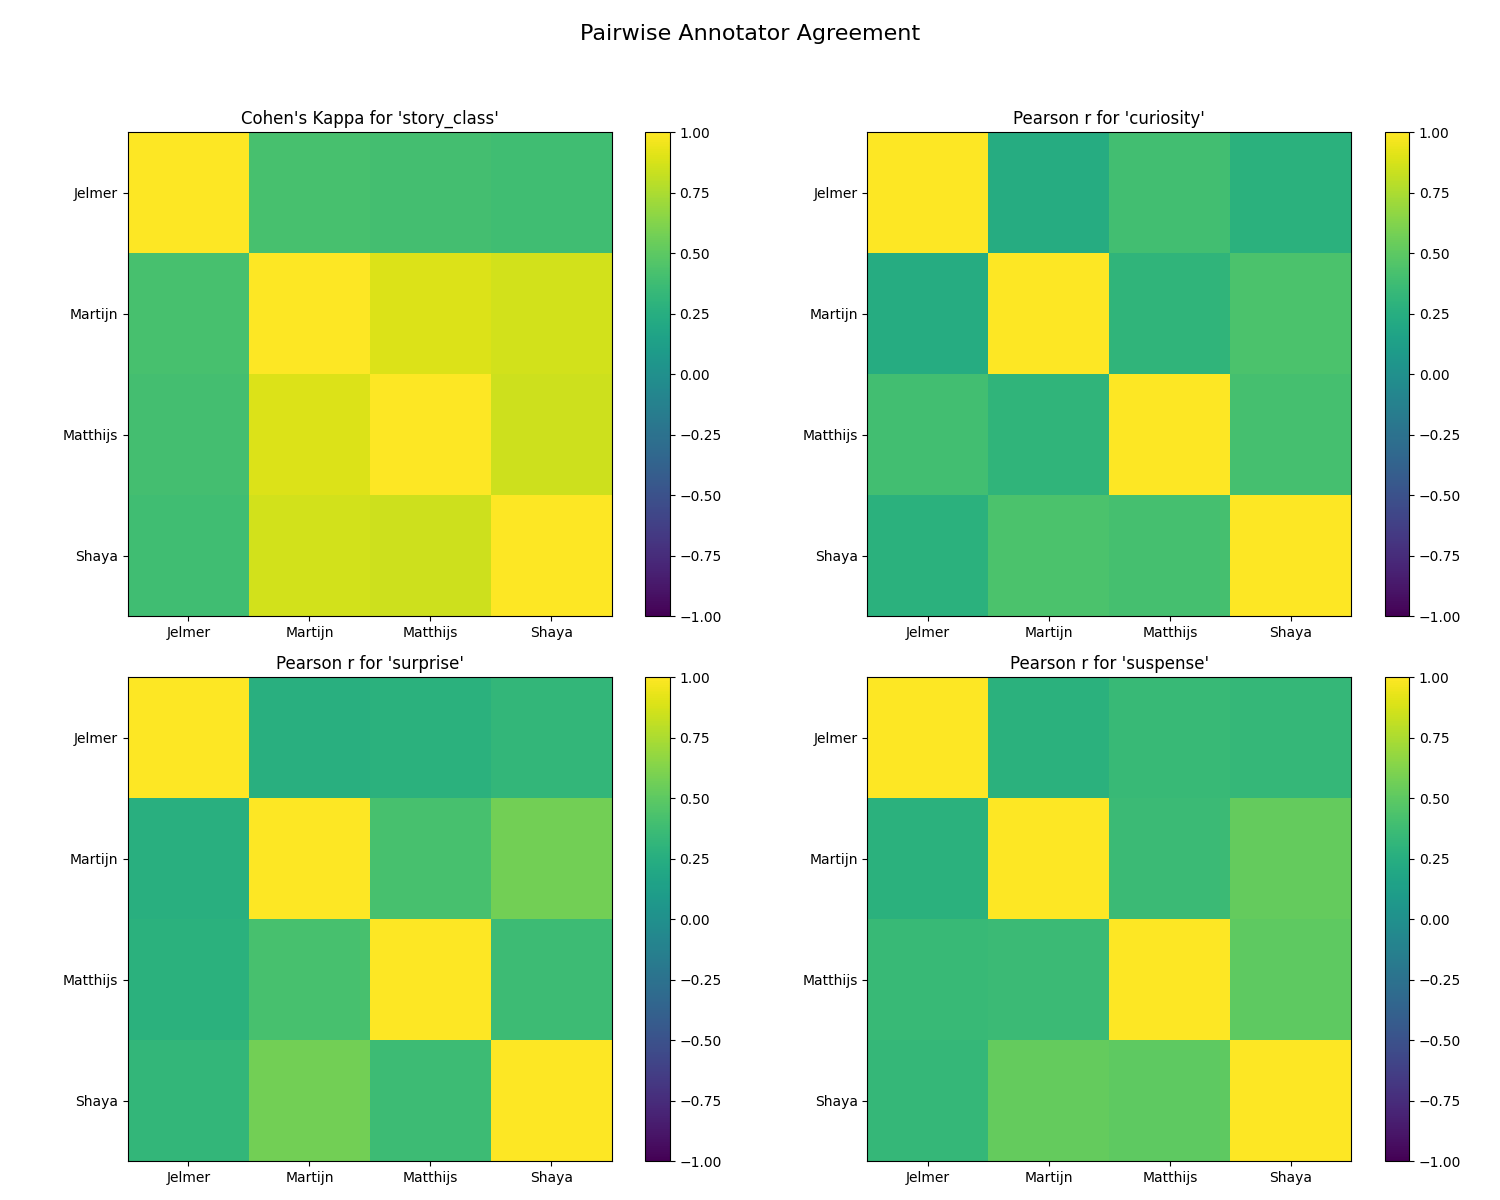
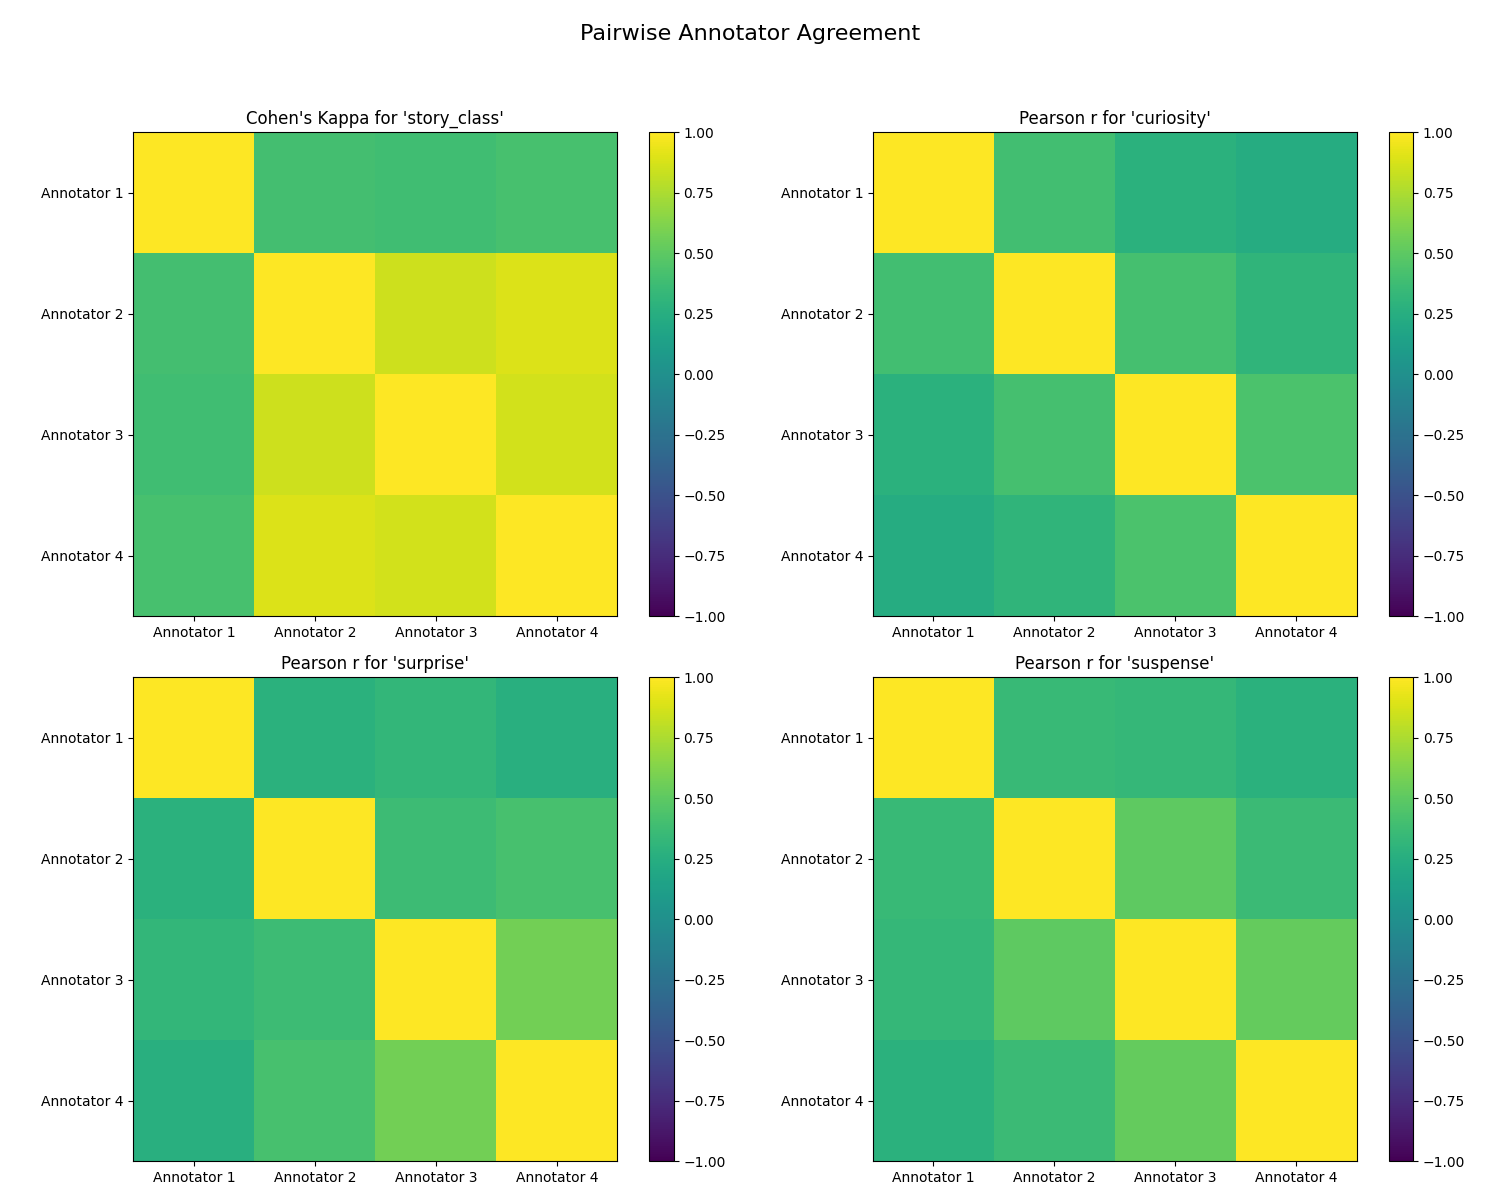
everything for iaa results its hella ugly code though

diff --git a/annotation-phase/detailed_iaa.py b/annotation-phase/detailed_iaa.py
@@ -16,7 +16,7 @@ import matplotlib.pyplot as plt
 from scipy.stats import pearsonr, spearmanr
 from sklearn.metrics import cohen_kappa_score
 
-with open('names-annotations.json', 'r', encoding='utf-8') as f:
+with open('numbers-annotations.json', 'r', encoding='utf-8') as f:
     data = json.load(f)
 
 content_groups = defaultdict(list)
@@ -238,3 +238,24 @@ for category in categories:
     print(temp_df[['content', category]].head(5))
 
 df_variance.to_csv('content_disagreement.csv')
+
+pivot = df_annotations.pivot(index='name',
+                             columns='annotator',
+                             values='curiosity')
+
+annotators = pivot.columns.tolist()
+w_kappa = pd.DataFrame(index=annotators, columns=annotators, dtype=float)
+
+for i, a1 in enumerate(annotators):
+    for j, a2 in enumerate(annotators):
+        if i == j:
+            w_kappa.loc[a1, a2] = 1.0
+        else:
+            x = pivot[a1].dropna()
+            y = pivot[a2].dropna()
+            common = x.index.intersection(y.index)
+            w_kappa.loc[a1, a2] = cohen_kappa_score(
+                x.loc[common], y.loc[common], weights='quadratic'
+            )
+
+print("\nPairwise quadratic weighted κ for curiosity:\n", w_kappa)
